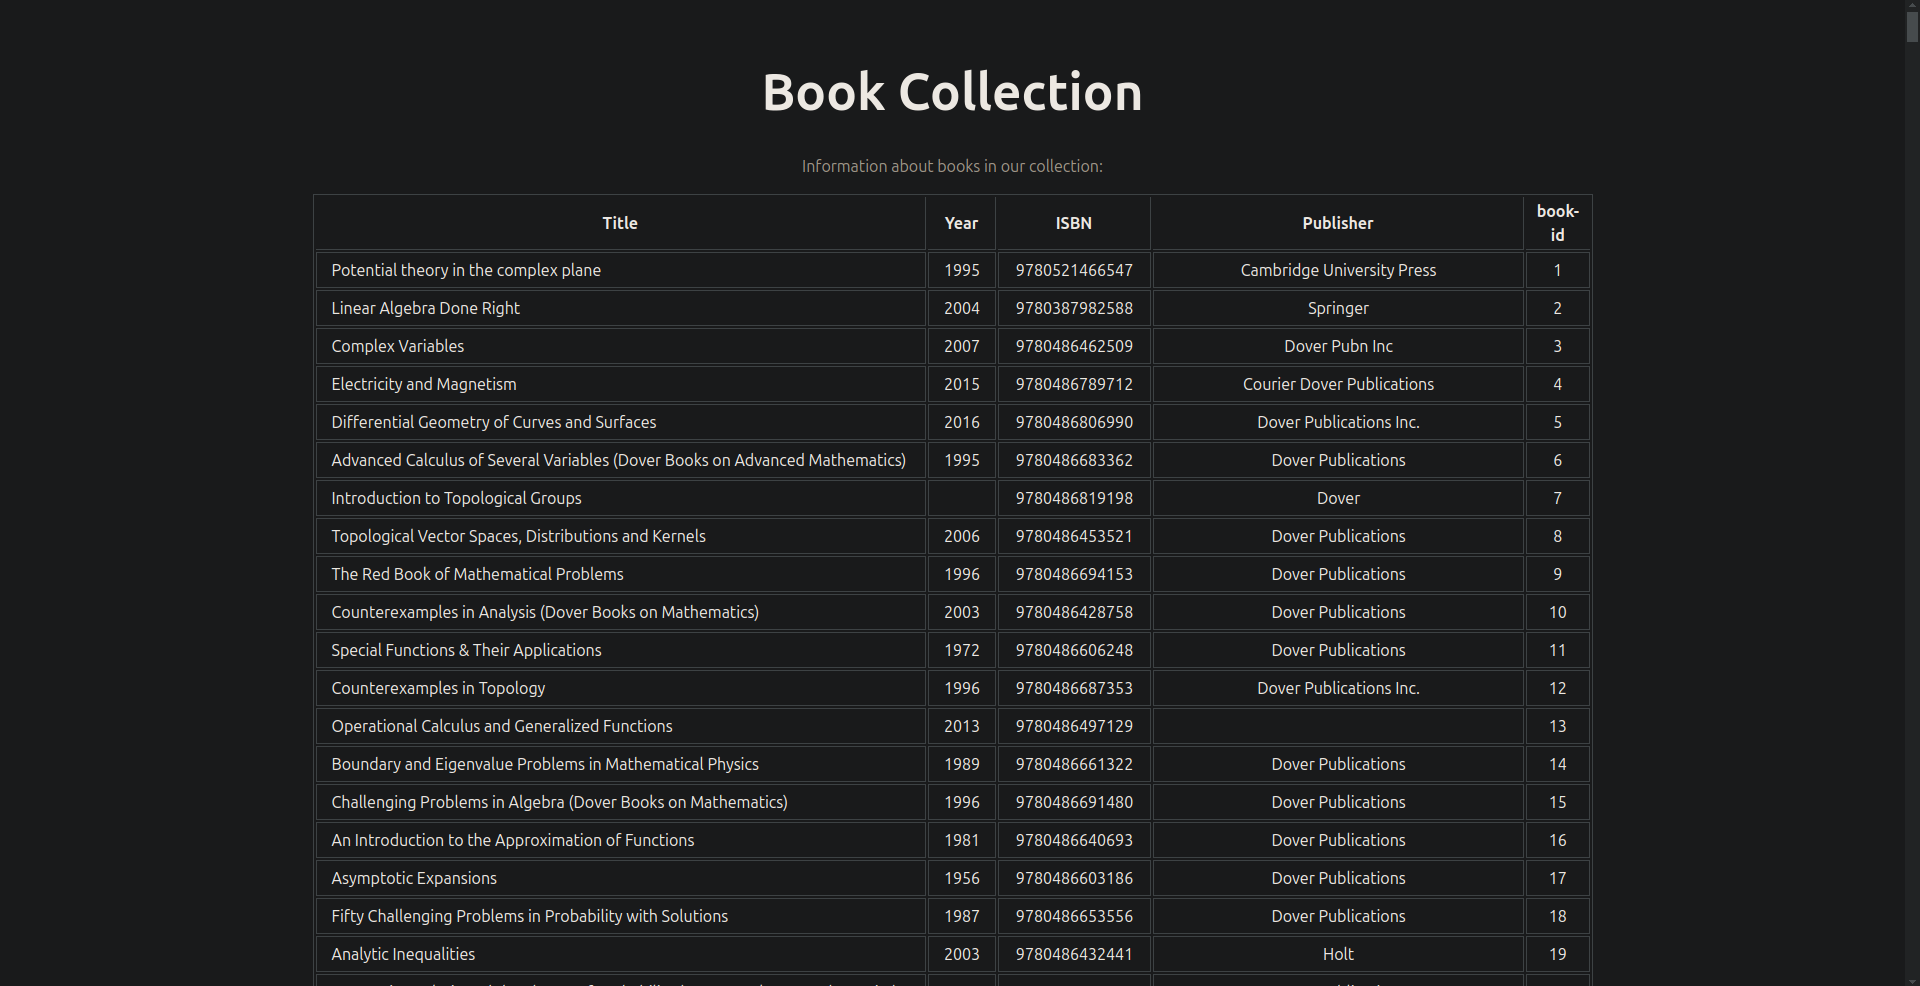
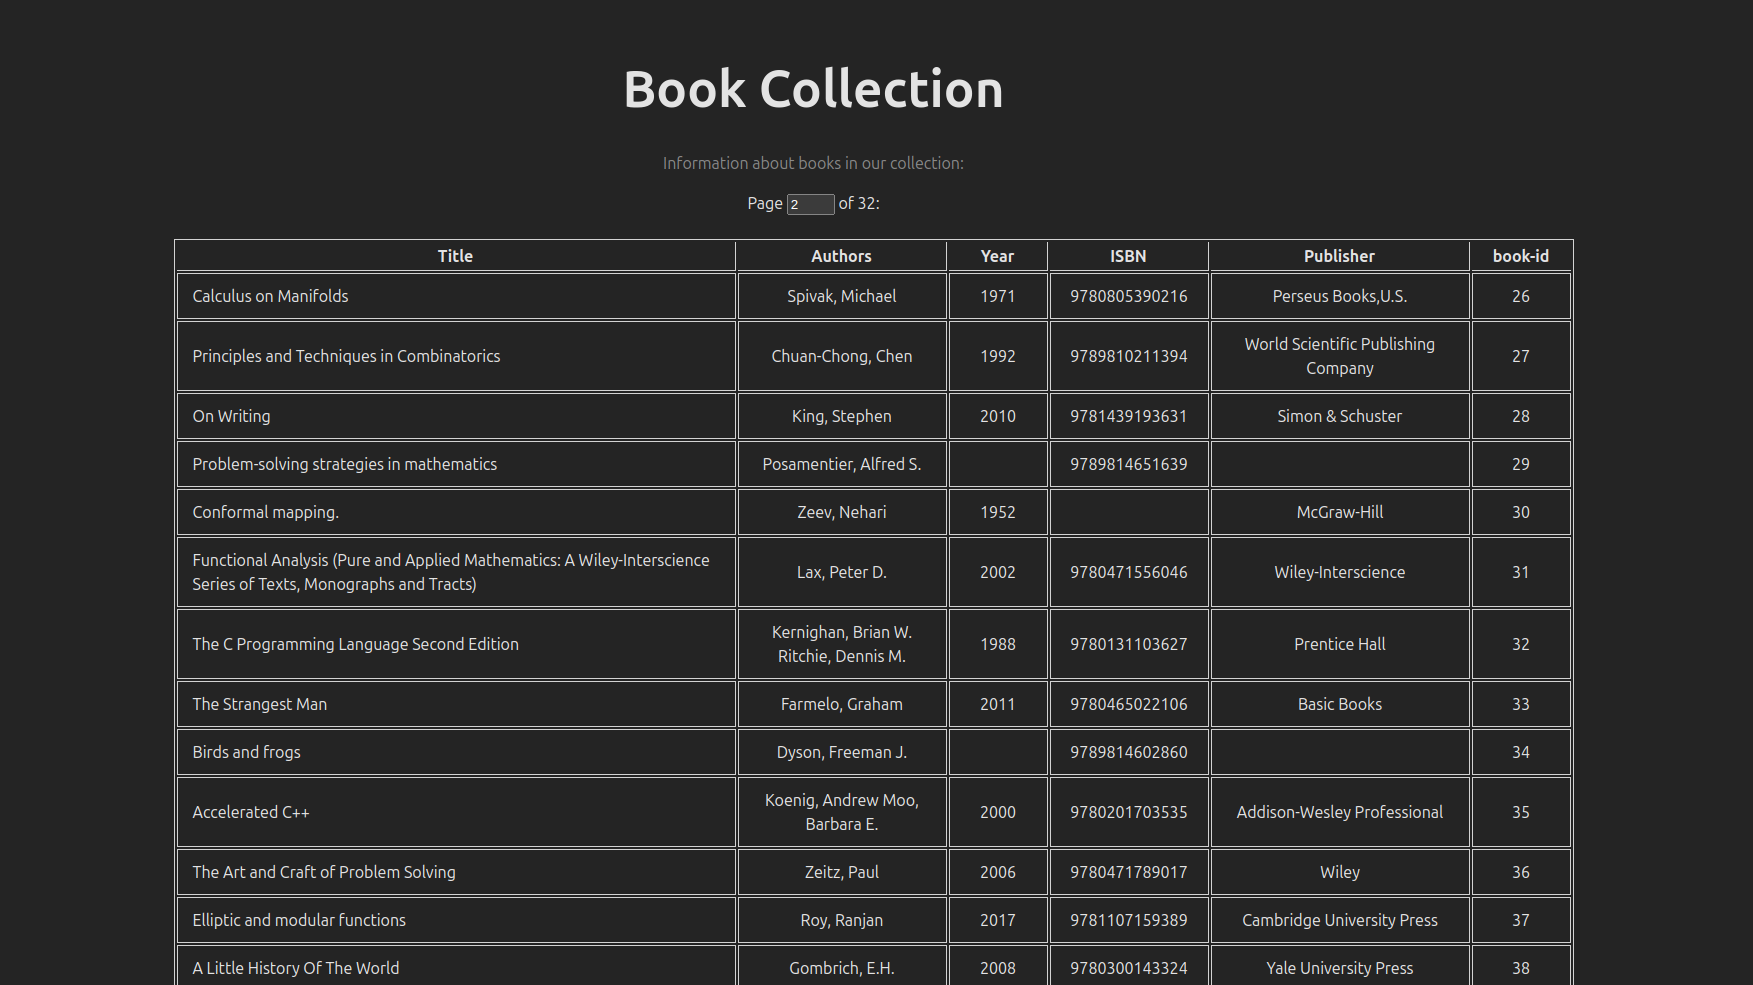
Add author info to book table in web app

diff --git a/webapp/server/bookdata/BookData.ts b/webapp/server/bookdata/BookData.ts
@@ -6,6 +6,9 @@ type Book = {
   isbn: string | null;
   publisher: string | null;
   id: number;
+  // We build the string here for now; later
+  // we might want to send structured author data.
+  authorString: string;
 };
 
 type BookData = {
@@ -19,7 +22,7 @@ async function num_books(client: Client): Promise<number> {
     `select count(*) as numRows from book`,
   );
 
-  if (results === undefined) {
+  if (results === undefined || results.length == 0) {
     return 0;
   }
 
@@ -28,39 +31,88 @@ async function num_books(client: Client): Promise<number> {
 
 const BOOKS_PER_PAGE: number = 25;
 
+type Author = {
+  id: number;
+  first_name: string;
+  last_name: string;
+};
+
+async function book_authors_string(
+  client: Client,
+  book_id: number,
+): Promise<string> {
+  const query = `
+select a.id
+     , a.first_name
+     , a.last_name
+  from author a
+  join author_book ab
+    on a.id = ab.author_id
+   and ab.book_id = ${book_id}
+  `;
+
+  const { rows: authors } = await client.execute(query);
+  const authorArray = <Author[]> authors;
+
+  let authorString = "";
+  for (let i = 0; i < authorArray.length; i++) {
+    const author = authorArray[i];
+    // TODO: Better handle case where first or last is null.
+    authorString += `${author.last_name}, ${author.first_name}`;
+    if (i < authorArray.length - 1) {
+      authorString += "\n";
+    }
+  }
+
+  // console.log(authorArray);
+  // console.log(authorString);
+
+  return authorString;
+}
+
 async function run_query(client: Client, page: number): Promise<Book[]> {
   const lowerLimit = BOOKS_PER_PAGE * (page - 1);
 
   const { rows: books } = await client.execute(
     `select title, year, isbn, publisher, id from book limit ${lowerLimit}, ${BOOKS_PER_PAGE}`,
   );
+  const bookArray = <Book[]> books;
+
+  for (const i in bookArray) {
+    const bookAsBook = <Book> bookArray[i];
+    const authorString: string = await book_authors_string(
+      client,
+      bookAsBook.id,
+    );
+    bookAsBook.authorString = authorString;
+  }
 
   return books as Book[];
 }
 
-const _testData: Book[] = [
-  {
-    title: "War and Peace",
-    year: 1869,
-    isbn: "978-1-85326-062-9",
-    publisher: null,
-    id: 1,
-  },
-  {
-    title: "The Unbearable Lightness of Being",
-    year: 1984,
-    isbn: "978-0061148521",
-    publisher: "Harper Perennial Modern Classics",
-    id: 2,
-  },
-  {
-    title: "Dune",
-    year: 1965,
-    isbn: "978-0441013593",
-    publisher: "Ace",
-    id: 3,
-  },
-];
+// const _testData: Book[] = [
+//   {
+//     title: "War and Peace",
+//     year: 1869,
+//     isbn: "978-1-85326-062-9",
+//     publisher: null,
+//     id: 1,
+//   },
+//   {
+//     title: "The Unbearable Lightness of Being",
+//     year: 1984,
+//     isbn: "978-0061148521",
+//     publisher: "Harper Perennial Modern Classics",
+//     id: 2,
+//   },
+//   {
+//     title: "Dune",
+//     year: 1965,
+//     isbn: "978-0441013593",
+//     publisher: "Ace",
+//     id: 3,
+//   },
+// ];
 
 async function BookData(currentPage: number): Promise<BookData> {
   const client = await new Client().connect({

diff --git a/webapp/client/src/BookTable.tsx b/webapp/client/src/BookTable.tsx
@@ -15,6 +15,9 @@ type Book = {
   isbn: string | null;
   publisher: string | null;
   id: number;
+  // NOTE: For now author string is built in
+  // the backend data endpoint.
+  authorString: string;
 };
 
 type BookData = {
@@ -29,6 +32,11 @@ const columns = [
   columnHelper.accessor("title", {
     cell: (info) => info.getValue(),
     header: () => <span>Title</span>,
+    footer: (info) => info.column.id,
+  }),
+  columnHelper.accessor("authorString", {
+    cell: (info) => info.getValue(),
+    header: () => <span>Authors</span>,
     footer: (info) => info.column.id,
   }),
   columnHelper.accessor("year", {
@@ -103,6 +111,8 @@ function BookTable() {
         "/books?" + new URLSearchParams({ page: currentPage }).toString(),
       );
       const bookData: BookData = (await response.json()) as BookData;
+
+      console.log(bookData);
 
       setData(bookData.books);
       setTotalPages(bookData.numPages);

diff --git a/webapp/client/src/BookTable.css b/webapp/client/src/BookTable.css
@@ -1,7 +1,7 @@
 table {
   border: 1px solid lightgray;
   table-layout: fixed;
-  width: 1350px;
+  width: 1400px;
 }
 
 tbody {
@@ -23,7 +23,7 @@ th:last-child {
 td {
   border: 1px solid lightgray;
   margin: 0px;
-  padding: 5px 15px;
+  padding: 10px 15px;
 }
 
 td:first-child {
@@ -39,6 +39,10 @@ tfoot th {
   font-weight: normal;
 }
 
+p.page-selector {
+  margin-bottom: 1.5em;
+}
+
 input.page-selector {
   width: 3em;
 }
@@ -46,7 +50,11 @@ input.page-selector {
 /* Table header th elements. */
 
 th#title {
-  width: 700px;
+  width: 550px;
+}
+
+th#authorString {
+  width: 200px;
 }
 
 th#isbn {
@@ -54,5 +62,5 @@ th#isbn {
 }
 
 th#publisher {
-  width: 300px;
+  width: 250px;
 }
